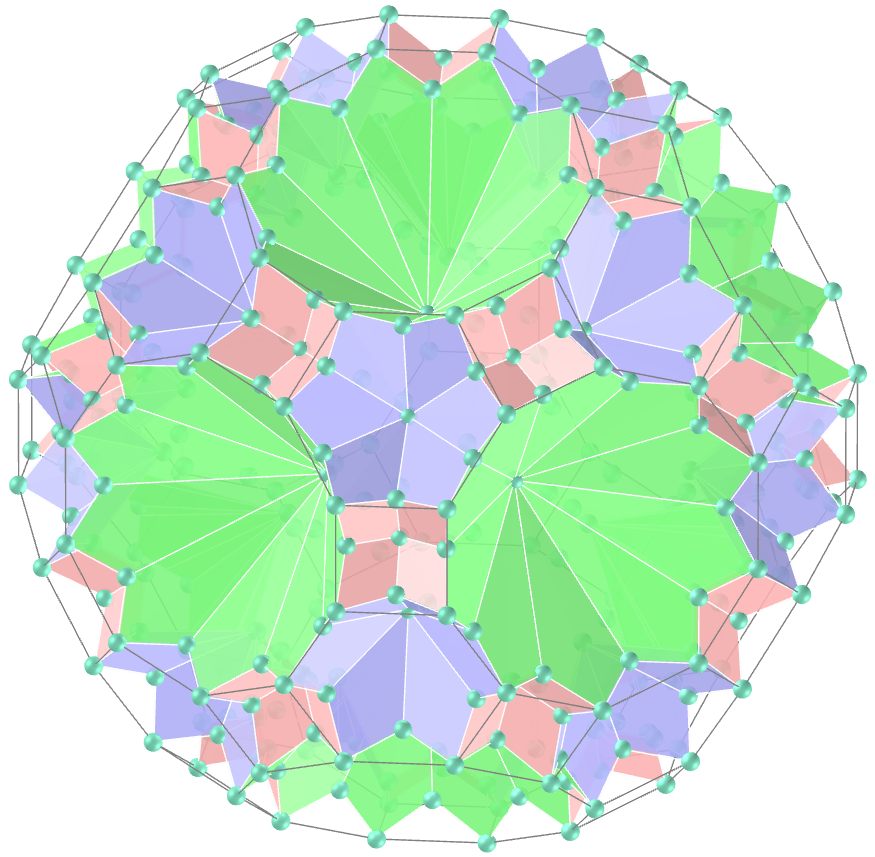
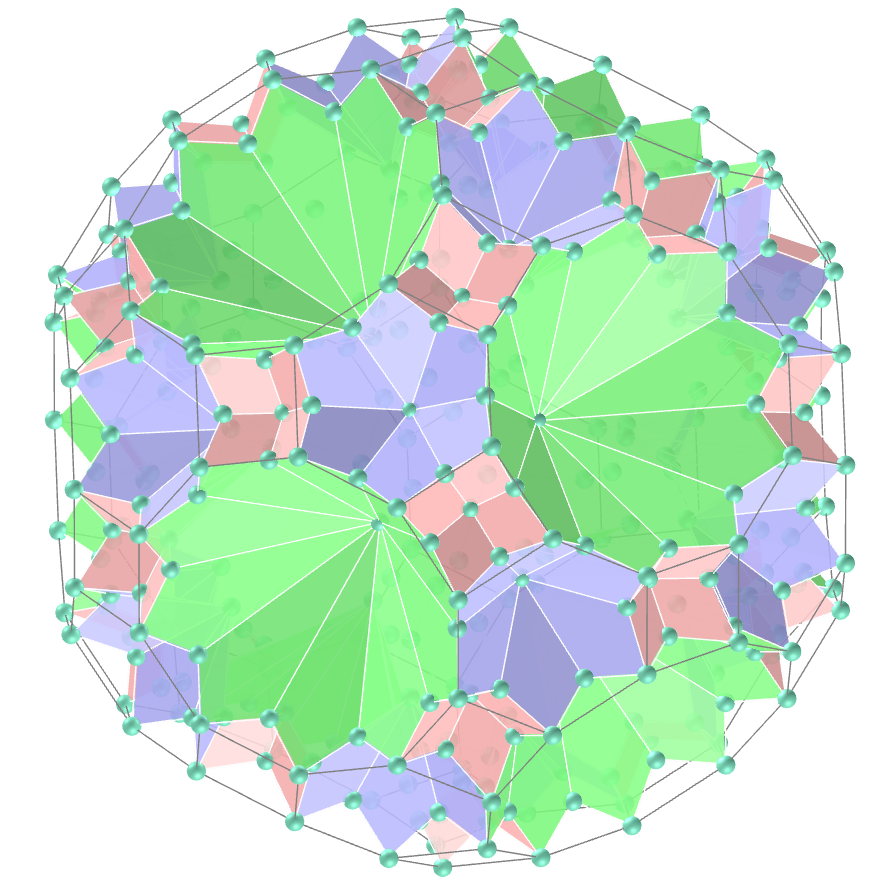
update

diff --git a/kites/vr/Truncated_Octahedron.htm b/kites/vr/Truncated_Octahedron.htm
@@ -56,88 +56,88 @@
 			<a-sphere mixin='esfera' position='-0.308758272 0.308758272 1.235033086'></a-sphere>
 			<a-sphere mixin='esfera' position='-0.308758272 -0.308758272 1.235033086'></a-sphere>
 			<a-sphere mixin='esfera' position='0.308758272 -0.308758272 1.235033086'></a-sphere>
-			<a-sphere mixin='esfera' position='0 0 1.103228341'></a-sphere>
+			<a-sphere mixin='esfera' position='0 0 1.0961507814'></a-sphere>
 			<a-sphere mixin='esfera' position='0.308758272 -0.308758272 1.235033086'></a-sphere>
 			<a-sphere mixin='esfera' position='0 -0.926274815 0.926274815'></a-sphere>
 			<a-sphere mixin='esfera' position='0.308758272 -1.235033086 0.308758272'></a-sphere>
 			<a-sphere mixin='esfera' position='0.926274815 -0.926274815 0'></a-sphere>
 			<a-sphere mixin='esfera' position='1.235033086 -0.308758272 0.308758272'></a-sphere>
 			<a-sphere mixin='esfera' position='0.926274815 0 0.926274815'></a-sphere>
-			<a-sphere mixin='esfera' position='0.452053505 -0.452053505 0.452053505'></a-sphere>
+			<a-sphere mixin='esfera' position='0.4474433332 -0.4474433332 0.4474433332'></a-sphere>
 			<a-sphere mixin='esfera' position='0.308758272 0.308758272 -1.235033086'></a-sphere>
 			<a-sphere mixin='esfera' position='0 0.926274815 -0.926274815'></a-sphere>
 			<a-sphere mixin='esfera' position='0.308758272 1.235033086 -0.308758272'></a-sphere>
 			<a-sphere mixin='esfera' position='0.926274815 0.926274815 0'></a-sphere>
 			<a-sphere mixin='esfera' position='1.235033086 0.308758272 -0.308758272'></a-sphere>
 			<a-sphere mixin='esfera' position='0.926274815 0 -0.926274815'></a-sphere>
-			<a-sphere mixin='esfera' position='0.452053505 0.452053505 -0.452053505'></a-sphere>
+			<a-sphere mixin='esfera' position='0.4474433332 0.4474433332 -0.4474433332'></a-sphere>
 			<a-sphere mixin='esfera' position='-0.308758272 0.308758272 1.235033086'></a-sphere>
 			<a-sphere mixin='esfera' position='0 0.926274815 0.926274815'></a-sphere>
 			<a-sphere mixin='esfera' position='-0.308758272 1.235033086 0.308758272'></a-sphere>
 			<a-sphere mixin='esfera' position='-0.926274815 0.926274815 0'></a-sphere>
 			<a-sphere mixin='esfera' position='-1.235033086 0.308758272 0.308758272'></a-sphere>
 			<a-sphere mixin='esfera' position='-0.926274815 0 0.926274815'></a-sphere>
-			<a-sphere mixin='esfera' position='-0.452053505 0.452053505 0.452053505'></a-sphere>
+			<a-sphere mixin='esfera' position='-0.4474433332 0.4474433332 0.4474433332'></a-sphere>
 			<a-sphere mixin='esfera' position='-0.308758272 -0.308758272 -1.235033086'></a-sphere>
 			<a-sphere mixin='esfera' position='0 -0.926274815 -0.926274815'></a-sphere>
 			<a-sphere mixin='esfera' position='-0.308758272 -1.235033086 -0.308758272'></a-sphere>
 			<a-sphere mixin='esfera' position='-0.926274815 -0.926274815 0'></a-sphere>
 			<a-sphere mixin='esfera' position='-1.235033086 -0.308758272 -0.308758272'></a-sphere>
 			<a-sphere mixin='esfera' position='-0.926274815 0 -0.926274815'></a-sphere>
-			<a-sphere mixin='esfera' position='-0.452053505 -0.452053505 -0.452053505'></a-sphere>
+			<a-sphere mixin='esfera' position='-0.4474433332 -0.4474433332 -0.4474433332'></a-sphere>
 			<a-sphere mixin='esfera' position='0.926274815 0.926274815 0'></a-sphere>
 			<a-sphere mixin='esfera' position='0.308758272 1.235033086 0.308758272'></a-sphere>
 			<a-sphere mixin='esfera' position='0 0.926274815 0.926274815'></a-sphere>
 			<a-sphere mixin='esfera' position='0.308758272 0.308758272 1.235033086'></a-sphere>
 			<a-sphere mixin='esfera' position='0.926274815 0 0.926274815'></a-sphere>
 			<a-sphere mixin='esfera' position='1.235033086 0.308758272 0.308758272'></a-sphere>
-			<a-sphere mixin='esfera' position='0.452053505 0.452053505 0.452053505'></a-sphere>
+			<a-sphere mixin='esfera' position='0.4474433332 0.4474433332 0.4474433332'></a-sphere>
 			<a-sphere mixin='esfera' position='0.926274815 -0.926274815 0'></a-sphere>
 			<a-sphere mixin='esfera' position='0.308758272 -1.235033086 -0.308758272'></a-sphere>
 			<a-sphere mixin='esfera' position='0 -0.926274815 -0.926274815'></a-sphere>
 			<a-sphere mixin='esfera' position='0.308758272 -0.308758272 -1.235033086'></a-sphere>
 			<a-sphere mixin='esfera' position='0.926274815 0 -0.926274815'></a-sphere>
 			<a-sphere mixin='esfera' position='1.235033086 -0.308758272 -0.308758272'></a-sphere>
-			<a-sphere mixin='esfera' position='0.452053505 -0.452053505 -0.452053505'></a-sphere>
+			<a-sphere mixin='esfera' position='0.4474433332 -0.4474433332 -0.4474433332'></a-sphere>
 			<a-sphere mixin='esfera' position='-0.926274815 -0.926274815 0'></a-sphere>
 			<a-sphere mixin='esfera' position='-0.308758272 -1.235033086 0.308758272'></a-sphere>
 			<a-sphere mixin='esfera' position='0 -0.926274815 0.926274815'></a-sphere>
 			<a-sphere mixin='esfera' position='-0.308758272 -0.308758272 1.235033086'></a-sphere>
 			<a-sphere mixin='esfera' position='-0.926274815 0 0.926274815'></a-sphere>
 			<a-sphere mixin='esfera' position='-1.235033086 -0.308758272 0.308758272'></a-sphere>
-			<a-sphere mixin='esfera' position='-0.452053505 -0.452053505 0.452053505'></a-sphere>
+			<a-sphere mixin='esfera' position='-0.4474433332 -0.4474433332 0.4474433332'></a-sphere>
 			<a-sphere mixin='esfera' position='-0.926274815 0.926274815 0'></a-sphere>
 			<a-sphere mixin='esfera' position='-0.308758272 1.235033086 -0.308758272'></a-sphere>
 			<a-sphere mixin='esfera' position='0 0.926274815 -0.926274815'></a-sphere>
 			<a-sphere mixin='esfera' position='-0.308758272 0.308758272 -1.235033086'></a-sphere>
 			<a-sphere mixin='esfera' position='-0.926274815 0 -0.926274815'></a-sphere>
 			<a-sphere mixin='esfera' position='-1.235033086 0.308758272 -0.308758272'></a-sphere>
-			<a-sphere mixin='esfera' position='-0.452053505 0.452053505 -0.452053505'></a-sphere>
+			<a-sphere mixin='esfera' position='-0.4474433332 0.4474433332 -0.4474433332'></a-sphere>
 			<a-sphere mixin='esfera' position='0.308758272 -0.308758272 -1.235033086'></a-sphere>
 			<a-sphere mixin='esfera' position='-0.308758272 -0.308758272 -1.235033086'></a-sphere>
 			<a-sphere mixin='esfera' position='-0.308758272 0.308758272 -1.235033086'></a-sphere>
 			<a-sphere mixin='esfera' position='0.308758272 0.308758272 -1.235033086'></a-sphere>
-			<a-sphere mixin='esfera' position='0 0 -1.103228341'></a-sphere>
+			<a-sphere mixin='esfera' position='0 0 -1.0961507814'></a-sphere>
 			<a-sphere mixin='esfera' position='1.235033086 0.308758272 0.308758272'></a-sphere>
 			<a-sphere mixin='esfera' position='1.235033086 -0.308758272 0.308758272'></a-sphere>
 			<a-sphere mixin='esfera' position='1.235033086 -0.308758272 -0.308758272'></a-sphere>
 			<a-sphere mixin='esfera' position='1.235033086 0.308758272 -0.308758272'></a-sphere>
-			<a-sphere mixin='esfera' position='1.103228341 0 0'></a-sphere>
+			<a-sphere mixin='esfera' position='1.0961507814 0 0'></a-sphere>
 			<a-sphere mixin='esfera' position='-1.235033086 0.308758272 -0.308758272'></a-sphere>
 			<a-sphere mixin='esfera' position='-1.235033086 -0.308758272 -0.308758272'></a-sphere>
 			<a-sphere mixin='esfera' position='-1.235033086 -0.308758272 0.308758272'></a-sphere>
 			<a-sphere mixin='esfera' position='-1.235033086 0.308758272 0.308758272'></a-sphere>
-			<a-sphere mixin='esfera' position='-1.103228341 0 0'></a-sphere>
+			<a-sphere mixin='esfera' position='-1.0961507814 0 0'></a-sphere>
 			<a-sphere mixin='esfera' position='0.308758272 1.235033086 0.308758272'></a-sphere>
 			<a-sphere mixin='esfera' position='0.308758272 1.235033086 -0.308758272'></a-sphere>
 			<a-sphere mixin='esfera' position='-0.308758272 1.235033086 -0.308758272'></a-sphere>
 			<a-sphere mixin='esfera' position='-0.308758272 1.235033086 0.308758272'></a-sphere>
-			<a-sphere mixin='esfera' position='0 1.103228341 0'></a-sphere>
+			<a-sphere mixin='esfera' position='0 1.0961507814 0'></a-sphere>
 			<a-sphere mixin='esfera' position='-0.308758272 -1.235033086 0.308758272'></a-sphere>
 			<a-sphere mixin='esfera' position='-0.308758272 -1.235033086 -0.308758272'></a-sphere>
 			<a-sphere mixin='esfera' position='0.308758272 -1.235033086 -0.308758272'></a-sphere>
 			<a-sphere mixin='esfera' position='0.308758272 -1.235033086 0.308758272'></a-sphere>
-			<a-sphere mixin='esfera' position='0 -1.103228341 0'></a-sphere>
+			<a-sphere mixin='esfera' position='0 -1.0961507814 0'></a-sphere>
 		</a-entity>
 		
 		<a-box mixin="piso" class="piso" visible="false" position="0 -1.5 0"></a-box>
